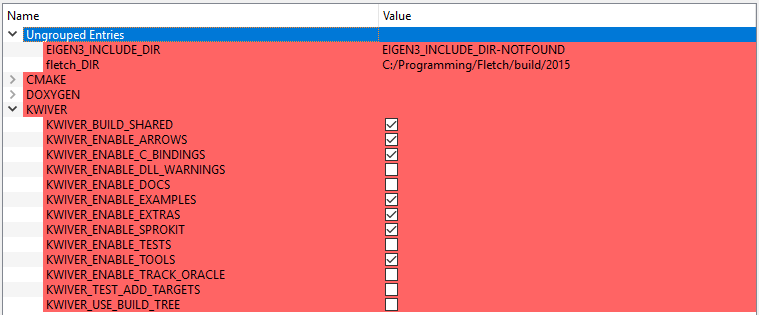
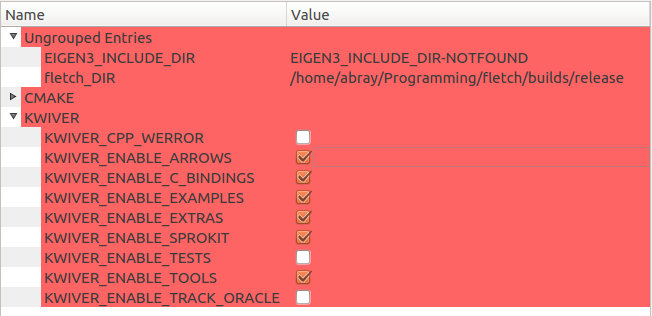
Update images and running kwiver to refer to correct directories

Changed region(s): [[0.0, 0.0, 1.0, 1.0]]

diff --git a/README.rst b/README.rst
@@ -139,6 +139,7 @@ for third-party projects prefixed with ``KWIVER_ENABLE_`` that enable
 building the Arrows plugins that depend on those projects.  When building
 with the support of Fletch_ (set ``fletch_DIR``) the enable options for
 packages built by Fletch should be turned on by default.
+The fletch_DIR is the fletch build directory root, which contains the fletchConfig.cmake file.
 
 The following sections will walk you through the basic options for a minimal kwiver build.
 
@@ -150,7 +151,7 @@ Note, This assumes your fletch was built with python support (Turn OFF if not)
 You will also need to replace the fletch path with your own::
 
     $ cmake </path/to/kwiver/source> -DCMAKE_BUILD_TYPE=Release \
-            -Dfletch_DIR:PATH=<path/to/fletch/builds/install> 
+            -Dfletch_DIR:PATH=<path/to/fletch/build/dir>
             -DKWIVER_ENABLE_ARROWS:BOOL=ON -DKWIVER_ENABLE_C_BINDINGS:BOOL=ON \
             -DKWIVER_ENABLE_EXTRAS:BOOL=ON -DKWIVER_ENABLE_LOG4CPLUS:BOOL=ON \
             -DKWIVER_ENABLE_PROCESSES:BOOL=ON -DKWIVER_ENABLE_PYTHON:BOOL=ON \
@@ -161,9 +162,9 @@ Basic CMake generation using ccmake
 ~~~~~~~~~~~~~~~~~~~~~~~~~~~~~~~~~~~~~~~~~~~~
 
 When first configuring a kwiver build with ccmake it is preferable to set the build
-configuration and ``fletch_DIR`` on the command line like this::
+configuration and ``fletch_DIR``. The command line will look like this::
 
-  $ ccmake /path/to/kwiver/source -DCMAKE_BUILD_TYPE=Release -Dfletch_DIR=/path/to/fletch/install
+  $ ccmake /path/to/kwiver/source -DCMAKE_BUILD_TYPE=Release -Dfletch_DIR=/path/to/fletch/release
 
 Other CMake options can also be passed on the command line in this way if desired.
 Follow the recommended option setup using the cmake GUI. 
@@ -232,12 +233,12 @@ to allow KWIVER to work conveniently within in the shell/cmd window.
 You can run this simple pipeline to ensure your system is configured properly::
 
   # via a bash shell
-  </path/to/kwiver/build>/bin/pipeline_runner -p </path/to/kwiver/source>/sprokit/pipelines/number_flow.pipe
+  </path/to/kwiver/build>/bin/pipeline_runner -p ../examples/pipelines/number_flow.pipe
   #
   # on windows, you will need to also be in the configuration folder
-  </path/to/kwiver/build>/bin/release/pipeline_runner -p </path/to/kwiver/source>/sprokit/pipelines/number_flow.pipe
+  </path/to/kwiver/build>/bin/release/pipeline_runner -p ..\..\examples\pipelines\number_flow.pipe
 
-This will generate a 'numbers.txt' file in the current directory (/bin or /bin/release).
+This will generate a 'numbers.txt' file in the </path/to/kwiver/build>/examples/pipelines/output directory.
 
 KWIVER Users
 ============
